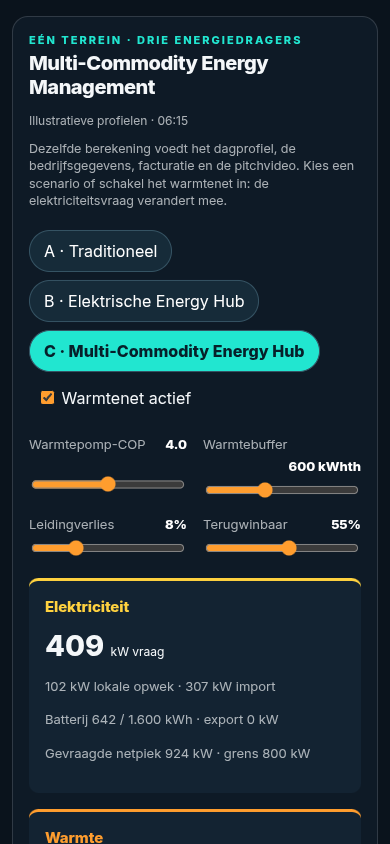
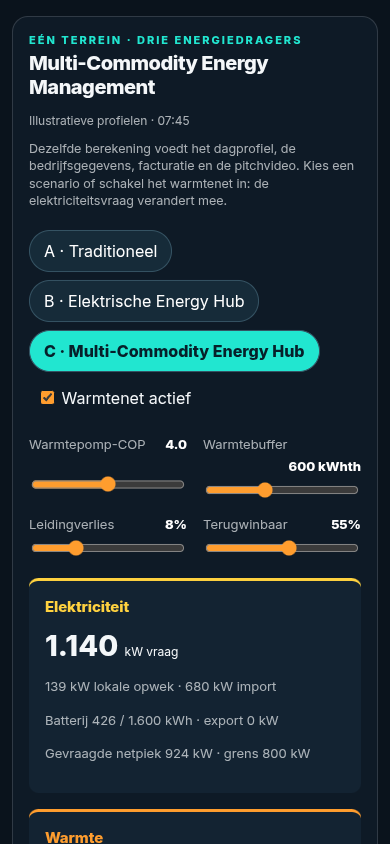
Record final browser captures and clarify delivery limits

diff --git a/web/src/demo/BillingPage.tsx b/web/src/demo/BillingPage.tsx
@@ -28,7 +28,7 @@ export const BillingPage: React.FC<{tabs: React.ReactNode; s: Settings; setS: Re
       <section className="intro">
         <h1>Eén factuur voor het terrein. Iedereen betaalt naar gebruik.</h1>
         <p>
-          De leverancier factureert de coöperatie voor de afgesproken levering. De coöperatie verdeelt de kosten per bedrijf op basis van de meetdata uit het dashboard: wat je uit het net, uit eigen opwek en uit de batterij gebruikt, plus een vaste bijdrage voor je gegarandeerde minimum. Wie verbruik schuift of zelf opwekt, krijgt een vergoeding.
+          De leverancier factureert de coöperatie voor de afgesproken levering. De coöperatie verdeelt de kosten per bedrijf op basis van de meetdata uit het dashboard: wat je uit het net, uit eigen opwek en uit de batterij gebruikt, plus een vaste bijdrage voor het referentievermogen. Dit is geen leveringsgarantie; eventuele tekorten worden apart getoond.
         </p>
       </section>
 

diff --git a/scripts/verify-browser.py b/scripts/verify-browser.py
@@ -48,6 +48,6 @@ with sync_playwright() as p:
     page.evaluate('document.querySelector(".demo").scrollTop = document.querySelector(".multi").offsetTop - 16')
     page.screenshot(path=str(ROOT / 'out/dashboard-mobile.png'))
     assert page.evaluate('document.querySelector(".demo").scrollWidth <= document.querySelector(".demo").clientWidth')
-    print({'warmtenet_toggle':'ok','COP':'ok','buffer':'ok','facturatie':'ok','mobile':'ok','page_errors':errors})
+    print({'warmtenet_toggle':'ok','COP':'ok','buffer':'ok','facturatie':'ok','plattegrond':'ok','mobile':'ok','page_errors':errors})
     assert not errors
     b.close()
